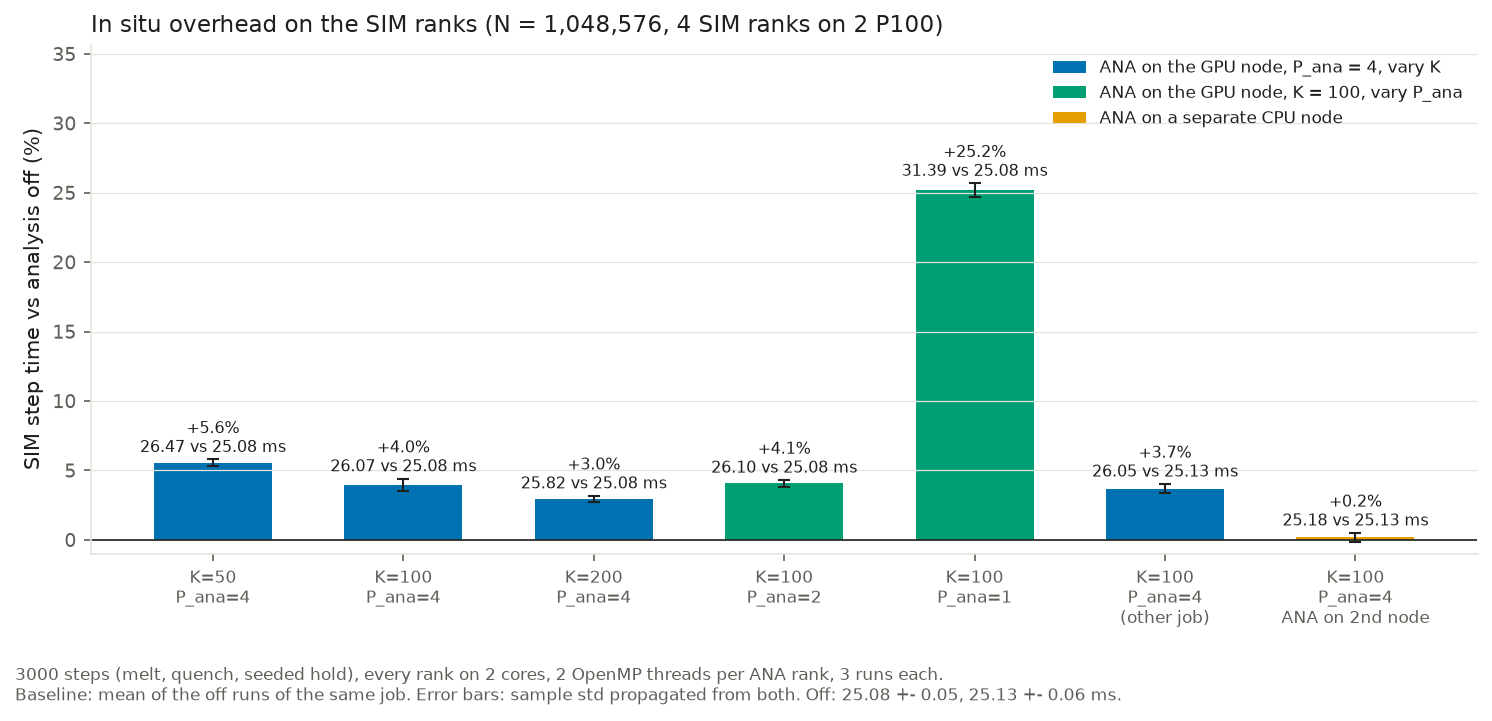
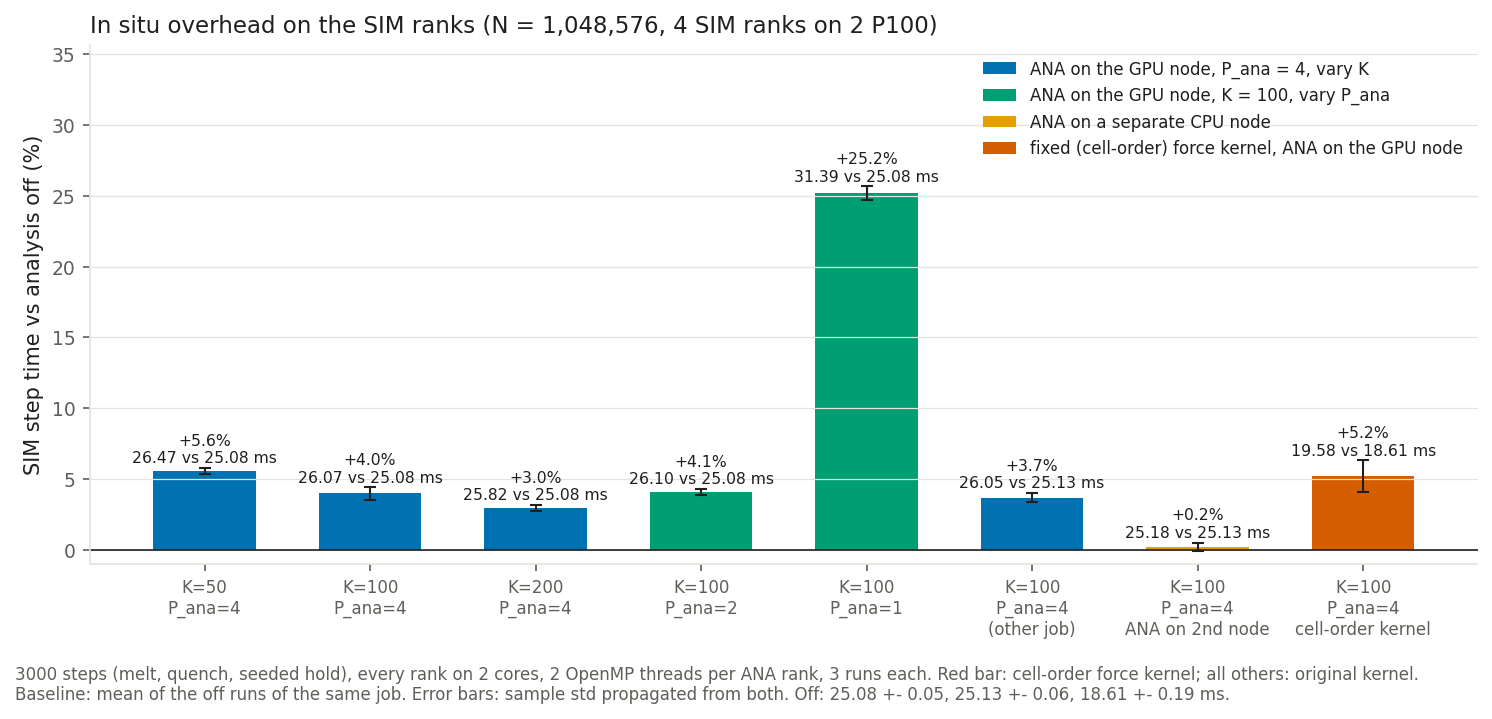
Rerun in situ overhead at K = 100, P_ana = 4 with the cell-order kernel
Job 14364486 on e23-02, 3 interleaved off/on repeats of the 3000-step
seeded protocol, as in job 14363611. Analysis off 18.61 +- 0.19 ms, on
19.58 +- 0.06 ms: +5.2 +- 1.1% (was +4.0 +- 0.4% at 25.08 ms). The
absolute cost is unchanged (0.97 vs 0.99 ms per step), so the faster
step makes it a larger fraction. Stall 0, t_analysis 0.84 s against
1.96 s of MD between analysis steps. plot_perf orders the cell-order
group last and prints it in the analysis-time table; tables.md
regenerated.

diff --git a/analysis/plot_perf.py b/analysis/plot_perf.py
@@ -304,7 +304,8 @@ if len(ins):
                  ("2nd node" if "2nd node" in l else ("P" if "P_ana=4" not in l else "K")))
                 for l, j in zip(B.run, B.job)]
     B["key"] = B.run.map({k: i for i, k in enumerate(order)})
-    B = B.sort_values(["job", "key"])
+    B["jo"] = B.job.map({"insitu": 0, "insitu_sep": 1, "insitu_cell": 2})
+    B = B.sort_values(["jo", "key"])
     fig, ax = plt.subplots(figsize=(10, 4.4))
     x = np.arange(len(B))
     cmap_ = {"K": BLUE, "P": GREEN, "2nd node": ORANGE, "cell": VERMILLION}
@@ -331,7 +332,7 @@ if len(ins):
     ax.legend(loc="upper right", fontsize=8)
     title(ax, "In situ overhead on the SIM ranks (N = 1,048,576, 4 SIM ranks on 2 P100)")
     note(fig, "3000 steps (melt, quench, seeded hold), every rank on 2 cores, 2 OpenMP threads per ANA "
-         "rank, 3 runs each. All bars but the last: original force kernel.\nBaseline: mean of the off runs of the same job. Error bars: "
+         "rank, 3 runs each. Red bar: cell-order force kernel; all others: original kernel.\nBaseline: mean of the off runs of the same job. Error bars: "
          "sample std propagated from both. Off: %s ms." % ", ".join(
              "%.2f +- %.2f" % (a_, b_) for a_, b_ in R[R.run == "off"][["step", "std"]].values))
     fig.tight_layout(); fig.savefig(os.path.join(IMG, "perf_insitu_overhead.png")); plt.close(fig)
@@ -377,9 +378,9 @@ if len(ins):
                     (100, 4, True): (-9, 9, "right"), (200, 4, False): (0, 10, "center")}.get(
                         (int(r.K), int(r.P), bool(r.sep)), (9, 0, "left"))
             if r.cell:
-                off_ = (9, 0, "left")
+                off_ = (0, -20, "center")
             ax[0].annotate("K=%d, P_ana=%d%s%s" % (r.K, r.P, ", 2nd node" if r.sep else "",
-                                                   ", cell-order kernel" if r.cell else ""),
+                                                   ",\ncell-order kernel" if r.cell else ""),
                            (r.kstep, r.tana), xytext=off_[:2], ha=off_[2], va="center",
                            textcoords="offset points", fontsize=8, color=INK)
         lim = max(q.kstep.max(), q.tana.max()) * 1.25
@@ -405,7 +406,8 @@ if len(ins):
              "(error bars: std over repeats). Right: the 97,400-step production run.")
         fig.tight_layout(); fig.savefig(os.path.join(IMG, "perf_analysis_time.png")); plt.close(fig)
         print("\n### analysis time vs K x step\n")
-        print(md(q, [("K", "K"), ("P_ana", "P"), ("2nd node", "sep"), ("K x step (s)", "kstep"),
+        print(md(q, [("K", "K"), ("P_ana", "P"), ("2nd node", "sep"), ("cell-order kernel", "cell"),
+                     ("K x step (s)", "kstep"),
                      ("t_analysis mean (s)", "tana"), ("t_analysis max (s)", "tmax"),
                      ("stall total (s)", "stall")],
                  {"kstep": lambda v: "%.2f" % v, "tana": lambda v: "%.2f" % v,

diff --git a/runs/perf/results/tables.md b/runs/perf/results/tables.md
@@ -1,6 +1,16 @@
-rows: 170 experiments: ['drift', 'insitu', 'insitu_sep', 'mixed', 'mixed_melt', 'scaling', 'sortfix', 'speedup']
+rows: 297 experiments: ['drift', 'insitu', 'insitu_sep', 'mixed', 'mixed_melt', 'scaling', 'sortfix', 'speedup']
 
-### speedup
+### speedup cell-order kernel
+
+| N | CPU 1 core | CPU 10 cores | CPU 20 cores | 1 P100 | 2 P100 | 1 P100 vs 1 core | 1 P100 vs node | 2 P100 vs node |
+|---|---|---|---|---|---|---|---|---|
+| 32,000 | 56.32 | 8.73 | 4.61 | 1.56 | 1.11 | 36.0x | 2.9x | 4.2x |
+| 108,000 | 171.98 | 27.49 | 14.65 | 4.33 | 2.76 | 39.7x | 3.4x | 5.3x |
+| 256,000 | 413.85 | 58.70 | 30.43 | 9.67 | 5.54 | 42.8x | 3.1x | 5.5x |
+| 500,000 | 772.32 | 112.59 | 56.09 | 21.68 | 10.39 | 35.6x | 2.6x | 5.4x |
+| 864,000 | 1358.82 | 201.85 | 99.41 | 41.86 | 19.67 | 32.5x | 2.4x | 5.1x |
+
+### speedup host-order kernel
 
 | N | CPU 1 core | CPU 10 cores | CPU 20 cores | 1 P100 | 2 P100 | 1 P100 vs 1 core | 1 P100 vs node | 2 P100 vs node |
 |---|---|---|---|---|---|---|---|---|
@@ -14,60 +24,65 @@ rows: 170 experiments: ['drift', 'insitu', 'insitu_sep', 'mixed', 'mixed_melt', 
 
 | config | N | step ms | std | n | force ms |
 |---|---|---|---|---|---|
-| cpu1 | 32000 | 56.401 | 0.195 | 2 | 55.611 |
-| cpu1 | 108000 | 171.978 | 0.055 | 2 | 169.618 |
-| cpu1 | 256000 | 413.708 | 0.026 | 2 | 408.026 |
-| cpu1 | 500000 | 769.636 | 0.096 | 2 | 755.936 |
-| cpu1 | 864000 | 1355.559 | 0.411 | 2 | 1327.085 |
-| cpu10 | 32000 | 8.704 | 0.026 | 3 | 8.094 |
-| cpu10 | 108000 | 27.478 | 0.081 | 3 | 26.316 |
-| cpu10 | 256000 | 59.027 | 0.370 | 3 | 56.506 |
-| cpu10 | 500000 | 112.738 | 0.032 | 3 | 108.510 |
-| cpu10 | 864000 | 201.981 | 0.402 | 3 | 191.474 |
-| cpu20 | 32000 | 4.587 | 0.028 | 3 | 4.111 |
-| cpu20 | 108000 | 14.667 | 0.042 | 3 | 13.627 |
-| cpu20 | 256000 | 30.583 | 0.036 | 3 | 29.052 |
-| cpu20 | 500000 | 56.131 | 0.056 | 3 | 53.881 |
-| cpu20 | 864000 | 99.367 | 0.492 | 3 | 95.528 |
-| gpu1 | 32000 | 1.736 | 0.006 | 3 | 0.897 |
-| gpu1 | 108000 | 4.770 | 0.008 | 3 | 2.385 |
-| gpu1 | 256000 | 10.992 | 0.028 | 3 | 5.426 |
-| gpu1 | 500000 | 23.924 | 0.080 | 3 | 10.151 |
-| gpu1 | 864000 | 46.650 | 0.062 | 3 | 18.460 |
-| gpu2 | 32000 | 1.326 | 0.002 | 3 | 0.728 |
-| gpu2 | 108000 | 3.011 | 0.003 | 3 | 1.464 |
-| gpu2 | 256000 | 6.023 | 0.008 | 3 | 2.790 |
-| gpu2 | 500000 | 11.554 | 0.027 | 3 | 5.411 |
-| gpu2 | 864000 | 21.695 | 0.062 | 3 | 9.242 |
+| cpu1 | 32000 | 56.319 | 0.100 | 2 | 55.532 |
+| cpu1 | 108000 | 171.983 | 0.001 | 2 | 169.621 |
+| cpu1 | 256000 | 413.847 | 0.211 | 2 | 408.158 |
+| cpu1 | 500000 | 772.320 | 0.168 | 2 | 758.632 |
+| cpu1 | 864000 | 1358.823 | 1.505 | 2 | 1330.522 |
+| cpu10 | 32000 | 8.732 | 0.070 | 3 | 8.120 |
+| cpu10 | 108000 | 27.488 | 0.133 | 3 | 26.286 |
+| cpu10 | 256000 | 58.701 | 0.039 | 3 | 56.465 |
+| cpu10 | 500000 | 112.589 | 0.078 | 3 | 108.390 |
+| cpu10 | 864000 | 201.845 | 0.244 | 3 | 191.369 |
+| cpu20 | 32000 | 4.606 | 0.014 | 3 | 4.115 |
+| cpu20 | 108000 | 14.648 | 0.003 | 3 | 13.623 |
+| cpu20 | 256000 | 30.432 | 0.090 | 3 | 29.181 |
+| cpu20 | 500000 | 56.086 | 0.184 | 3 | 53.838 |
+| cpu20 | 864000 | 99.410 | 0.698 | 3 | 95.505 |
+| gpu1 | 32000 | 1.563 | 0.003 | 3 | 0.732 |
+| gpu1 | 108000 | 4.333 | 0.005 | 3 | 1.951 |
+| gpu1 | 256000 | 9.672 | 0.030 | 3 | 4.158 |
+| gpu1 | 500000 | 21.685 | 0.260 | 3 | 7.877 |
+| gpu1 | 864000 | 41.862 | 0.153 | 3 | 13.659 |
+| gpu2 | 32000 | 1.105 | 0.004 | 3 | 0.529 |
+| gpu2 | 108000 | 2.759 | 0.005 | 3 | 1.211 |
+| gpu2 | 256000 | 5.540 | 0.028 | 3 | 2.297 |
+| gpu2 | 500000 | 10.391 | 0.080 | 3 | 4.240 |
+| gpu2 | 864000 | 19.670 | 0.122 | 3 | 7.128 |
 
 ### strong scaling
 
 | run | P | step ms | std | speedup | efficiency |
 |---|---|---|---|---|---|
-| CPU path, N = 256,000 | 1 | 415.29 | 0.15 | 1.00 | 1.00 |
-| CPU path, N = 256,000 | 2 | 225.14 | 0.17 | 1.84 | 0.92 |
-| CPU path, N = 256,000 | 4 | 126.50 | 0.26 | 3.28 | 0.82 |
-| CPU path, N = 256,000 | 8 | 75.19 | 0.02 | 5.52 | 0.69 |
-| CPU path, N = 256,000 | 16 | 38.05 | 0.01 | 10.91 | 0.68 |
-| CPU path, N = 256,000 | 20 | 30.38 | 0.19 | 13.67 | 0.68 |
-| GPU path, N = 256,000 | 1 | 10.87 | 0.04 | 1.00 | 1.00 |
-| GPU path, N = 256,000 | 2 | 6.55 | 0.06 | 1.66 | 0.83 |
-| GPU path, N = 1,048,576 | 1 | 58.52 | 0.06 | 1.00 | 1.00 |
-| GPU path, N = 1,048,576 | 2 | 33.78 | 0.04 | 1.73 | 0.87 |
-| GPU path, N = 1,048,576 | 4 | 25.97 | 0.15 | 2.25 | 0.56 |
+| CPU path, N = 256,000 | 1 | 416.86 | 0.29 | 1.00 | 1.00 |
+| CPU path, N = 256,000 | 2 | 224.84 | 0.57 | 1.85 | 0.93 |
+| CPU path, N = 256,000 | 4 | 126.34 | 0.16 | 3.30 | 0.82 |
+| CPU path, N = 256,000 | 8 | 75.37 | 0.53 | 5.53 | 0.69 |
+| CPU path, N = 256,000 | 16 | 38.01 | 0.00 | 10.97 | 0.69 |
+| CPU path, N = 256,000 | 20 | 30.29 | 0.10 | 13.76 | 0.69 |
+| GPU path, N = 256,000 | 1 | 9.69 | 0.09 | 1.00 | 1.00 |
+| GPU path, N = 256,000 | 2 | 6.08 | 0.01 | 1.60 | 0.80 |
+| GPU path, N = 1,048,576 | 1 | 51.73 | 0.21 | 1.00 | 1.00 |
+| GPU path, N = 1,048,576 | 2 | 30.50 | 0.20 | 1.70 | 0.85 |
+| GPU path, N = 1,048,576 | 4 | 23.58 | 0.11 | 2.19 | 0.55 |
+| GPU path, N = 1,048,576, before the fix | 1 | 58.52 | 0.06 | 1.00 | 1.00 |
+| GPU path, N = 1,048,576, before the fix | 2 | 33.78 | 0.04 | 1.73 | 0.87 |
+| GPU path, N = 1,048,576, before the fix | 4 | 25.97 | 0.15 | 2.25 | 0.56 |
 
 ### weak scaling
 
 | run | P | N | step ms | std | efficiency |
 |---|---|---|---|---|---|
-| CPU path, 32,000 atoms/core | 1 | 32,000 | 56.50 | 0.04 | 1.00 |
-| CPU path, 32,000 atoms/core | 2 | 64,000 | 59.47 | 0.03 | 0.95 |
-| CPU path, 32,000 atoms/core | 4 | 128,000 | 64.81 | 0.14 | 0.87 |
-| CPU path, 32,000 atoms/core | 8 | 256,000 | 75.32 | 0.02 | 0.75 |
-| CPU path, 32,000 atoms/core | 16 | 512,000 | 75.73 | 0.04 | 0.75 |
-| CPU path, 32,000 atoms/core | 20 | 640,000 | 75.86 | 0.04 | 0.74 |
-| GPU path, 262,144 atoms/GPU | 1 | 262,144 | 11.24 | 0.11 | 1.00 |
-| GPU path, 262,144 atoms/GPU | 2 | 524,288 | 14.60 | 0.03 | 0.77 |
+| CPU path, 32,000 atoms/core | 1 | 32,000 | 56.63 | 0.03 | 1.00 |
+| CPU path, 32,000 atoms/core | 2 | 64,000 | 59.46 | 0.16 | 0.95 |
+| CPU path, 32,000 atoms/core | 4 | 128,000 | 64.73 | 0.18 | 0.87 |
+| CPU path, 32,000 atoms/core | 8 | 256,000 | 75.20 | 0.07 | 0.75 |
+| CPU path, 32,000 atoms/core | 16 | 512,000 | 76.10 | 0.47 | 0.74 |
+| CPU path, 32,000 atoms/core | 20 | 640,000 | 75.88 | 0.26 | 0.75 |
+| GPU path, 262,144 atoms/GPU | 1 | 262,144 | 9.96 | 0.08 | 1.00 |
+| GPU path, 262,144 atoms/GPU | 2 | 524,288 | 13.61 | 0.08 | 0.73 |
+| GPU path, 262,144 atoms/GPU, before the fix | 1 | 262,144 | 11.24 | 0.11 | 1.00 |
+| GPU path, 262,144 atoms/GPU, before the fix | 2 | 524,288 | 14.60 | 0.03 | 0.77 |
 
 ### in situ overhead
 
@@ -82,17 +97,20 @@ rows: 170 experiments: ['drift', 'insitu', 'insitu_sep', 'mixed', 'mixed_melt', 
 | insitu_sep | off | 3 | 25.13 | 0.06 | +0.0 | 0.3 | nan | nan | nan | nan | nan |
 | insitu_sep | K=100, P_ana=4 | 3 | 26.05 | 0.06 | +3.7 | 0.3 | 0.824 | 0.847 | 0.000 | 0.0000 | 0.075 |
 | insitu_sep | K=100, P_ana=4, ANA on a 2nd node | 3 | 25.18 | 0.05 | +0.2 | 0.3 | 1.001 | 1.025 | 0.000 | 0.0000 | 0.072 |
+| insitu_cell | off | 3 | 18.61 | 0.19 | +0.0 | 1.5 | nan | nan | nan | nan | nan |
+| insitu_cell | K=100, P_ana=4 | 3 | 19.58 | 0.06 | +5.2 | 1.1 | 0.836 | 0.860 | 0.000 | 0.0000 | 0.075 |
 
 ### analysis time vs K x step
 
-| K | P_ana | 2nd node | K x step (s) | t_analysis mean (s) | t_analysis max (s) | stall total (s) |
-|---|---|---|---|---|---|---|
-| 50.0 | 4 | False | 1.36 | 0.83 | 1.10 | 0.000 |
-| 100.0 | 1 | False | 3.13 | 3.08 | 3.15 | 13.641 |
-| 100.0 | 2 | False | 2.65 | 1.56 | 1.61 | 0.000 |
-| 100.0 | 4 | False | 2.67 | 0.83 | 0.85 | 0.000 |
-| 100.0 | 4 | True | 2.58 | 1.00 | 1.03 | 0.000 |
-| 200.0 | 4 | False | 5.29 | 0.83 | 0.85 | 0.000 |
+| K | P_ana | 2nd node | cell-order kernel | K x step (s) | t_analysis mean (s) | t_analysis max (s) | stall total (s) |
+|---|---|---|---|---|---|---|---|
+| 50.0 | 4 | False | False | 1.36 | 0.83 | 1.10 | 0.000 |
+| 100.0 | 1 | False | False | 3.13 | 3.08 | 3.15 | 13.641 |
+| 100.0 | 2 | False | False | 2.65 | 1.56 | 1.61 | 0.000 |
+| 100.0 | 4 | False | False | 2.67 | 0.83 | 0.85 | 0.000 |
+| 100.0 | 4 | False | True | 1.96 | 0.84 | 0.86 | 0.000 |
+| 100.0 | 4 | True | False | 2.58 | 1.00 | 1.03 | 0.000 |
+| 200.0 | 4 | False | False | 5.29 | 0.83 | 0.85 | 0.000 |
 drift host-order threads off mean ms/step melt 27.54 ramp 31.35 hold 31.79 | force melt 14.41 hold 19.32
 drift host-order threads on mean ms/step melt 28.60 ramp 32.50 hold 32.92 | force melt 16.53 hold 20.91
 drift cell-order threads off mean ms/step melt 18.87 ramp 19.06 hold 18.72 | force melt 7.83 hold 7.92
